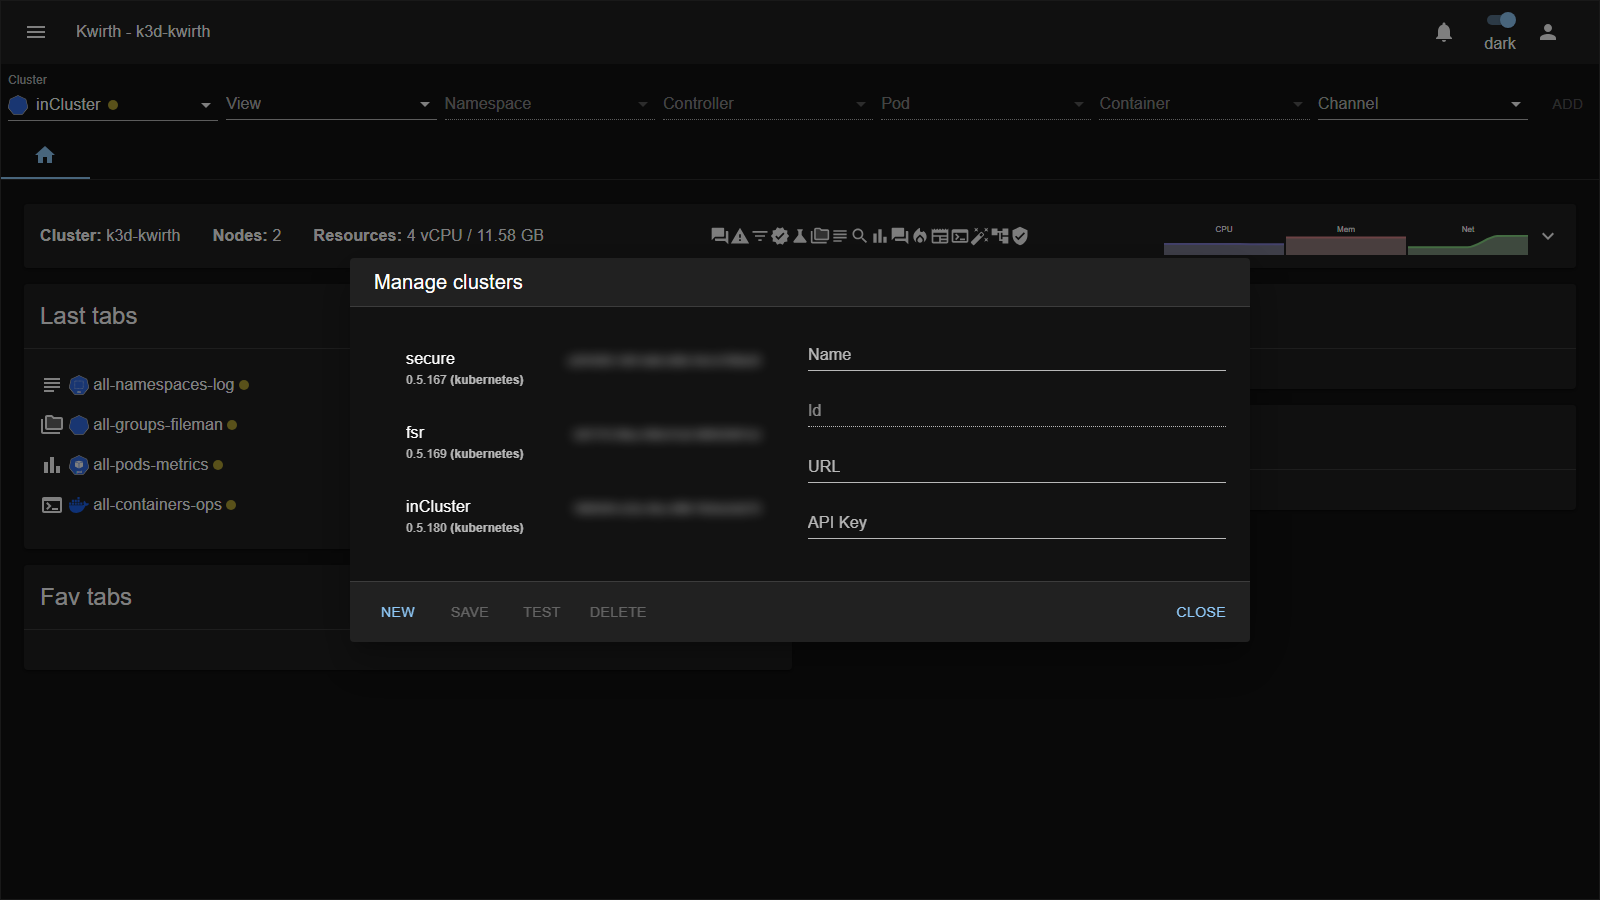
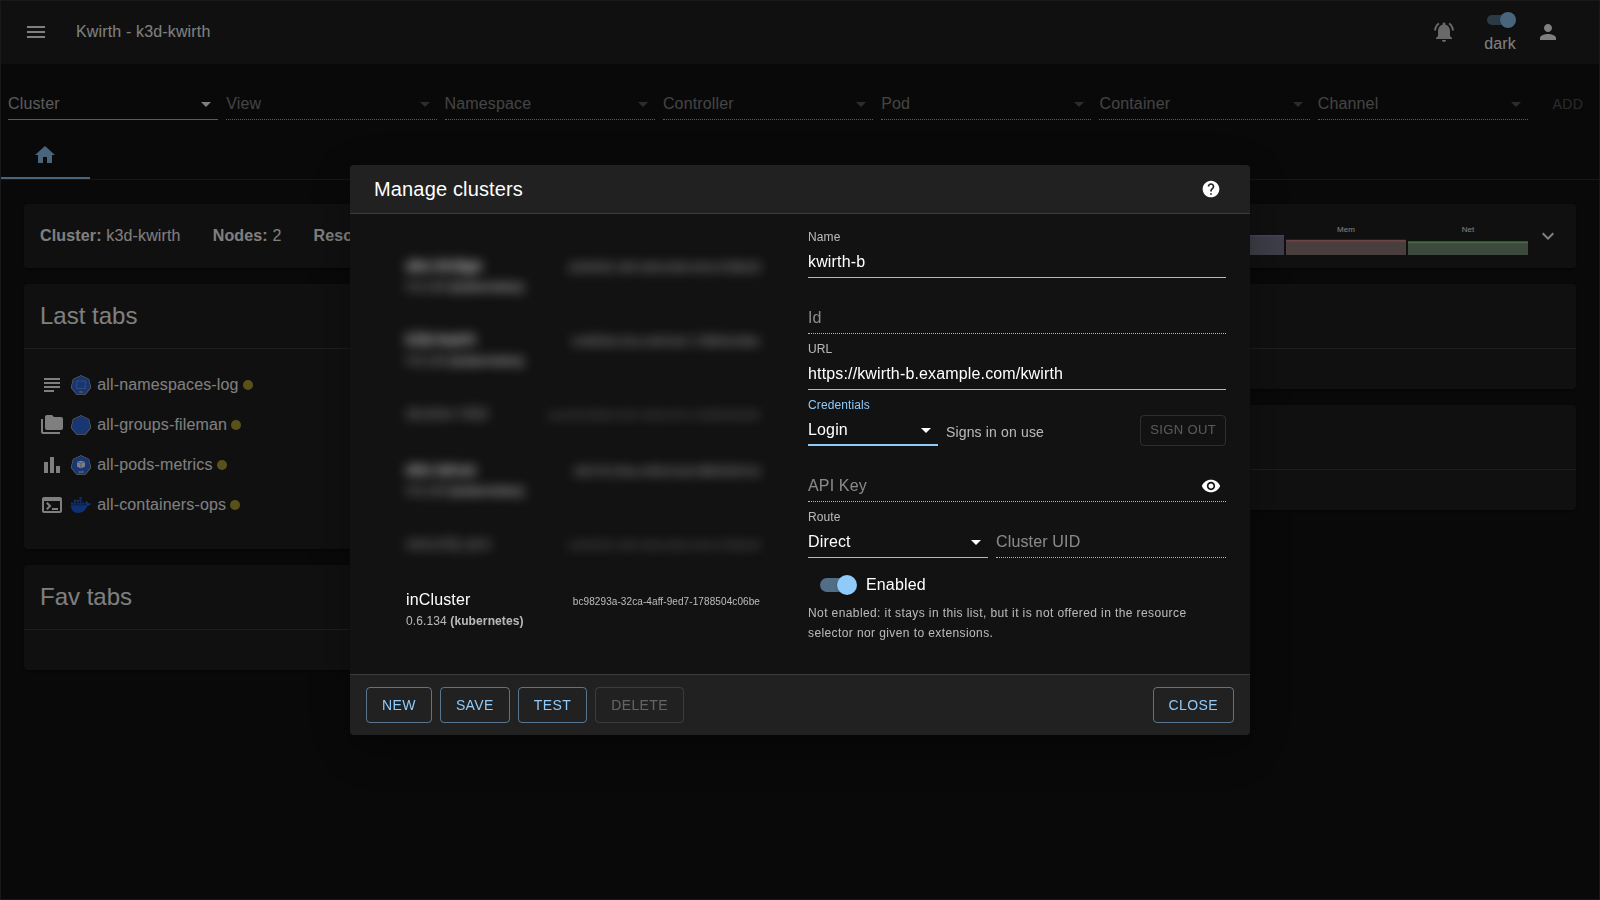
docs(guide): signing in to a cluster — new Manage clusters and Sign in captures (capture-clusters.spec.ts), Login credentials across the cluster pages, several kwirths on one domain, roadmap: cluster sign-in with SSO

diff --git a/front/e2e/tests/capture-clusters.spec.ts b/front/e2e/tests/capture-clusters.spec.ts
@@ -1,0 +1,116 @@
+import { test, expect, Page } from '@playwright/test'
+import { login, dismissOpenDialogs, openMenu, GUIDE_MEDIA, capturePedida } from './helpers'
+
+/*
+    Screenshots of the Cluster management guide (docs/<version>/guide/admin/06-cluster-management): the
+    Manage clusters dialog with a Login entry being added, and the Sign in dialog. Run by hand:
+        CAPTURES=1 npx playwright test tests/capture-clusters.spec.ts
+
+    🔴 The guide is PUBLIC and the development cluster list holds real names: every list entry but the source
+    one (inCluster) is blurred, and the forms carry EXAMPLE values. The Sign in dialog needs a saved Login
+    entry: it is created pointing at the dev back (the URL shown is swapped for an example one right before
+    the shot) and deleted at the end, in a finally.
+*/
+
+const MEDIA = GUIDE_MEDIA
+const BACK = process.env.KWIRTH_E2E_BACK ?? 'http://localhost:3883'
+const ENTRY = 'kwirth-b'
+const EXAMPLE_URL = 'https://kwirth-b.example.com/kwirth'
+
+const dialogOf = (page: Page) => page.getByRole('dialog').filter({ hasText: 'Manage clusters' })
+const actionOf = (page: Page, name: string) => dialogOf(page).locator('.MuiDialogActions-root').getByRole('button', { name, exact: true })
+const entryOf = (page: Page) => dialogOf(page).getByRole('list').getByRole('button').filter({ hasText: ENTRY })
+
+const openManage = async (page: Page) => {
+    await dismissOpenDialogs(page)
+    await openMenu(page)
+    await page.getByRole('menuitem', { name: 'Manage cluster list', exact: true }).click({ force: true })
+    await expect(dialogOf(page)).toBeVisible({ timeout: 20000 })
+}
+
+const closeManage = async (page: Page) => {
+    await actionOf(page, 'CLOSE').click()
+    await expect(dialogOf(page)).toBeHidden({ timeout: 10000 })
+}
+
+const deleteEntry = async (page: Page) => {
+    await entryOf(page).click()
+    await expect(dialogOf(page).getByLabel('Name', { exact: true })).toHaveValue(ENTRY)
+    await actionOf(page, 'DELETE').click()
+    await page.getByRole('dialog', { name: 'Delete Cluster' }).getByRole('button', { name: 'yes', exact: true }).click()
+    await expect(entryOf(page)).toHaveCount(0)
+}
+
+// every list entry but the source one is blurred: the dev list holds real cluster names and ids
+const redactList = (page: Page) => page.evaluate(() => {
+    for (const item of Array.from(document.querySelectorAll('[role=dialog] ul [role=button]'))) {
+        if (!(item.textContent ?? '').startsWith('inCluster')) (item as HTMLElement).style.filter = 'blur(6px)'
+    }
+})
+
+test('capture the Cluster management guide (dark, example values only)', async ({ page }) => {
+    await page.setViewportSize({ width: 1600, height: 900 })
+    await page.addInitScript(() => { try { localStorage.setItem('kwirth.mode', 'dark') } catch { /* */ } })
+    await login(page)
+    await page.addStyleTag({ content: '.MuiSnackbar-root { display: none !important; }' })
+
+    await openManage(page)
+    // a leftover of an earlier run that failed half-way is this spec's own entry: it goes
+    if (await entryOf(page).count() > 0) await deleteEntry(page)
+
+    try {
+        // ── the dialog, with a Login entry being typed (not saved) ──
+        if (capturePedida('admin-cluster-list')) {
+            await actionOf(page, 'NEW').click()
+            await dialogOf(page).getByLabel('Name', { exact: true }).fill(ENTRY)
+            await dialogOf(page).getByLabel('URL', { exact: true }).fill(EXAMPLE_URL)
+            await dialogOf(page).getByRole('combobox', { name: 'Credentials' }).click()
+            await page.getByRole('option', { name: 'Login', exact: true }).click()
+            await expect(page.getByRole('listbox')).toHaveCount(0)
+            await expect(dialogOf(page).getByTestId('manage-clusters-session')).toHaveText('Signs in on use')
+            await redactList(page)
+            await page.mouse.move(0, 0)
+            await page.waitForTimeout(800)
+            await page.screenshot({ path: `${MEDIA}/admin-cluster-list.png` })
+            await actionOf(page, 'NEW').click()
+        }
+
+        // ── the Sign in dialog: a saved Login entry, chosen in the resource selector ──
+        if (capturePedida('cluster-login-dialog')) {
+            await actionOf(page, 'NEW').click()
+            await dialogOf(page).getByLabel('Name', { exact: true }).fill(ENTRY)
+            await dialogOf(page).getByLabel('URL', { exact: true }).fill(BACK)
+            await dialogOf(page).getByRole('combobox', { name: 'Credentials' }).click()
+            await page.getByRole('option', { name: 'Login', exact: true }).click()
+            await actionOf(page, 'SAVE').click()
+            await expect(entryOf(page)).toHaveCount(1)
+            await closeManage(page)
+
+            await page.getByRole('combobox').first().click()
+            await page.getByRole('listbox').getByRole('option').filter({ hasText: ENTRY }).click()
+            const signIn = page.getByRole('dialog').filter({ hasText: `Sign in to ${ENTRY}` })
+            await expect(signIn).toBeVisible({ timeout: 10000 })
+            await signIn.getByLabel('Remote user').fill('operator')
+            await signIn.getByLabel('Remote password').fill('example-password')
+            // the dev back's address is not the guide's: the caption under the title shows an example one
+            await signIn.evaluate((d, url) => {
+                for (const el of Array.from(d.querySelectorAll('.MuiTypography-caption'))) {
+                    if ((el.textContent ?? '').startsWith('http')) el.textContent = url
+                }
+            }, EXAMPLE_URL)
+            await expect(signIn).toContainText(EXAMPLE_URL)
+            await page.mouse.move(0, 0)
+            await page.waitForTimeout(600)
+            await signIn.screenshot({ path: `${MEDIA}/cluster-login-dialog.png` })
+            await signIn.getByRole('button', { name: 'CANCEL', exact: true }).click()
+            await expect(signIn).toHaveCount(0)
+            await openManage(page)
+        }
+    }
+    finally {
+        await dismissOpenDialogs(page)
+        await openManage(page)
+        if (await entryOf(page).count() > 0) await deleteEntry(page)
+        await closeManage(page)
+    }
+})

diff --git a/docs/0.6.31/changelog.md b/docs/0.6.31/changelog.md
@@ -11,7 +11,8 @@ Minor but powerful features:
   - **Merging configuration files.** A new **Portability** tab in **Kwirth settings** merges several files exported with *Kwirth export* — and, if you want, this kwirth's current configuration — into a new one to download. The sources are shown in merge order, which you can change. What is in one source only, or identical in all of them, goes in on its own; only what **differs** is asked, naming the field that differs, and the file cannot be downloaded while anything is pending. A secret blanked by a credential-free export does not count as a difference: the value of the source that carries it is kept. Kwirth's own part is merged element by element (marketplaces, registries, addresses, log levels, AI providers and models, loose values); an extension is taken whole from one source. Nothing is applied: the result is imported with *Kwirth import*. `kwirth-common` (0.5.94) brings the merge (`analyzeMerge`, `buildMerged`, `EConfigMergeItemKind`) and moves `validateBundle` and `normalizeEntry` there from the back end. See [the guide](guide/admin/02-initial-config?id=merging-several-configuration-files).
   - **Clusters you sign in to.** An entry of the cluster list can now have **Credentials = Login** instead of a stored API key: when you use it, Kwirth asks for a user and password **of that cluster's own Kwirth** —any of its users, not necessarily the one you are logged in with here—, signs in there and keeps the key it hands out. The password is never stored. Credentials are separate from how the cluster is reached, so a cluster behind a router (Bridge, IRIA Ianus) can use Login too. The entry says **as &lt;user&gt;**, **login required** or **session expired** (the remote's key lasts 24 hours), and **Sign out** forgets the session. See [the guide](guide/admin/06-cluster-management?id=signing-in-to-a-cluster).
   - **Manage cluster list keeps what you save in place.** Saving left the entry highlighted with an empty form —and whatever was typed next overwrote it—, moved it to the end of the list, and entries sharing a URL could be drawn twice.
-  - **Several Kwirths on one domain no longer overwrite each other in the browser.** The browser keeps one localStorage per domain, whatever the path, so Kwirths served from the same domain under different paths (`/kwirth-a`, `/kwirth-b`…) shared every key: the same user in two of them overwrote each other's recent and favourite tabs, workspaces, theme and homepage, and so did every extension that keeps something there. Now a Kwirth under a path keeps everything in **one entry named after its path**, with the same keys inside; the core and every extension use localStorage exactly as before. A Kwirth served at the root is not affected and keeps what it had.
+  - **Several Kwirths on one domain no longer overwrite each other in the browser.** The browser keeps one localStorage per domain, whatever the path, so Kwirths served from the same domain under different paths (`/kwirth-a`, `/kwirth-b`…) shared every key: the same user in two of them overwrote each other's recent and favourite tabs, workspaces, theme and homepage, and so did every extension that keeps something there. Now a Kwirth under a path keeps everything in **one entry named after its path**, with the same keys inside; the core and every extension use localStorage exactly as before. A Kwirth served at the root is not affected and keeps what it had. See [Several kwirths on one domain](installation?id=several-kwirths-on-one-domain).
+  - **A marketplace manifest that cannot be read says why.** The log used to say only *fetch failed* —the same for a DNS failure, a refused connection, a certificate or a timeout— while the URL opened fine in a browser; it now adds the real cause, code and message (`(cause: ENOTFOUND — getaddrinfo ENOTFOUND …)`).
   - **Extension tags.** Every extension, of any type, says what it is **for** with a list of tags — `observability`, `log`, `kubernetes`, `ai`, `game`… — shown as chips on its card. The catalog of every manager gets a **tags filter**: ticking several shows what carries **all** of them. Tags come from a closed catalog (`EExtensionTag`, 55 of them), so the same idea is always spelled the same way; `kwirth-common` (0.5.95) brings it with `extensionTagsOf`, and `tags` in `IMarketplaceEntry` and (0.5.96) `IDceMeta`. Extensions declare `"tags"` in their `package.json`, the builds carry it to `dist/package.json`, and every scaffolder asks for them (`--tags a,b`, required with `--id`). See [the guide](guide/admin/08-extending-kwirth?id=the-manager-same-pattern-everywhere).
   - **User tags**: an admin labels each user with tags of the form `<extension>:<value>` (e.g. `agora:sre`) in **User security**, and each extension reads its own to adapt **how** it works for that user — an AI assistant answering an executive with an overview and an SRE with the detail. They grant **no** permission. Extensions get them in `IUserInfo.tags` through `getUsers()`; `kwirth-common` (0.5.80) brings `userTagsOf`, `normalizeUserTags` and `userTagsProblem`.
   - **Script sender** (`@kwirthmagnify/kwirth-sender-script`): a sender whose destination is a script written in its configuration — `sh`, `bash`, `pwsh`, `powershell` or `cmd` — getting the message on stdin (text or JSON) and/or as `KWIRTH_*` variables, in a clean environment that never inherits the back end's credentials, with a timeout that kills the whole process tree. A batch is one run. It can wait for the script and return its result, or return as soon as it starts (at most 20 runs in the background per configuration). See [script](guide/extensions/senders/script).

diff --git a/docs/0.6.31/guide/admin/06-cluster-management.md b/docs/0.6.31/guide/admin/06-cluster-management.md
@@ -41,7 +41,7 @@ It **takes precedence over every heuristic**, so it is also the way to fix a man
 
 ## Add a remote cluster
 
-To observe another cluster from here, that cluster must be running its **own** kwirth, and you need an **API key** from it.
+To observe another cluster from here, that cluster must be running its **own** kwirth, and you need an **API key** from it — or a user of that kwirth to [sign in with](#signing-in-to-a-cluster).
 
 1. On the **remote** kwirth, create an API key with the scopes you need (see [API management](05-api-management)) and copy it.
 2. Back on **this** kwirth: **☰ → Manage cluster list → NEW**.
@@ -53,7 +53,7 @@ To observe another cluster from here, that cluster must be running its **own** k
 
 The new cluster now appears in the **Cluster** dropdown of the [resource selector](../user/04-selecting-resources), and you can build tabs against it without logging out of this one.
 
-> Fields shown per cluster: **Name**, **Id**, **URL**, **API Key**, **Route**, **Credentials**. Buttons: **NEW**, **SAVE**, **TEST** (connectivity check), **DELETE**, **CLOSE**. You cannot edit or delete the source `inCluster` / `inDesktop` entry.
+> Fields shown per cluster: **Name**, **Id**, **URL**, **Credentials** (*API key* or *Login*, with the session state and **SIGN OUT** on the same row), **API Key**, **Route** and **Cluster UID** (see [Routers](../extensions/routers/index)), **Enabled**. Buttons: **NEW**, **SAVE**, **TEST** (connectivity check), **DELETE**, **CLOSE**. You cannot edit or delete the source `inCluster` / `inDesktop` entry.
 
 ## Signing in to a cluster
 
@@ -66,11 +66,15 @@ you would rather not leave a key stored in the list.
 Bridge or IRIA Ianus) and how you *sign in* are two different choices, so a cluster behind a router can use Login too.
 
 1. **☰ → Manage cluster list → NEW**, fill **Name** and **URL** (and **Route** if it is reached through a router).
-2. Set **Credentials** to **Login**. The **API Key** field stays there but disabled: there is nothing to paste.
+2. Set **Credentials** to **Login**. Next to it the dialog says *Signs in on use*; the **API Key** field below stays
+   there but disabled: there is nothing to paste.
 3. **TEST** checks that a kwirth answers at that address; **SAVE**.
 
 The entry now reads **login required**, here and in the **Cluster** dropdown of the resource selector. Choose it
 there and a **Sign in to &lt;cluster&gt;** dialog opens:
+
+![Sign in to a cluster](../../_media/guide/cluster-login-dialog.png)
+
 
 - The user is **the remote kwirth's**, not yours here. You may be logged in to this kwirth as `admin` and sign in to
   the remote one as any of its users — what you can do there is what *that* user may do.
@@ -109,11 +113,11 @@ This is what makes kwirth a **single pane of glass**: you don't switch context o
 
 ## How cross-cluster access works
 
-When you select a remote cluster in the resource selector, kwirth transparently uses the **API key you stored** for it — you don't log in again. So a single session can span clusters:
+When you select a remote cluster in the resource selector, kwirth transparently uses the **API key stored** for it — the one you pasted, or the one a *Login* entry got when you signed in — so you don't log in again while it lasts. A single session can span clusters:
 
 1. You log in to kwirth on cluster **A**.
-2. An admin on cluster **B** gave you an API key, which you added under **Manage cluster list**.
-3. Selecting cluster **B** in the resource selector makes kwirth use that key automatically to stream from **B**.
+2. An admin on cluster **B** gave you an API key, which you added under **Manage cluster list** — or a user of B's kwirth, and the entry's **Credentials** are **Login**.
+3. Selecting cluster **B** in the resource selector makes kwirth use that key automatically to stream from **B** (a *Login* entry asks for the user and password first, the first time and whenever the session has expired).
 
 ## Worked example — consolidate a second cluster
 

diff --git a/docs/0.6.31/roadmap.md b/docs/0.6.31/roadmap.md
@@ -21,6 +21,7 @@ We cite here some interesting capabilities that are missing today:
   - [AI] ~~`kwirth`, **AI capabilities**. Integrate AI-driven insights for log analysis, anomaly detection or artifact analysis.~~ DONE! (via 'pinocchio' and 'censor' channels)
   - [AI] ~~`kwirth`, **SSO**, implement Single Sing-On capabilities.~~ DONE!
   - [AI] ~~`kwirth`, **IdP**, implement integrations with external Identity Providers (EntraID, AD, Cognito, Keycloak, LDAP...)~~ DONE!
+  - `kwirth`, **Cluster sign-in with SSO**. A cluster-list entry with *Credentials = Login* signs in to the remote kwirth with a user and password of its own; a remote user who signs in through an identity provider cannot do it from there yet. Next steps: sign in to the remote through its IdP, and reopen the tabs already open on that cluster once its session is renewed.
   - `kwirth`, **Standard tokens**, implement JWT support (with scopes that match the VIEW system implemented inside kwirth)
   - `kwirth`, **Flexible authorization (RBAC/ABAC)**. Evolve the scope system beyond the per-plugin *ladder* convention (numeric level via `indexOf`), which is fine for simple plugins but too rigid for richer ones. The accessKey `resources` already store a comma-separated **set** of scope tokens and the core `hasScope` already tests membership, so an additive **permission-set** model (grant arbitrary scopes independently — e.g. *edit AI models + create working draft but NOT publish*) is available today with no core change, only a reading convention. Steps: (a) offer permission-set as a first-class option (not only ladder) in the scope catalog / user-security admin UI; (b) extend **ABAC** beyond the k8s dimensions by adding an optional, generic 6th dimension to the resource tuple (`scopes:namespaces:groups:pods:containers:selectors`, empty = any) that each plugin interprets for its own resources (e.g. a channel granting "edit everything under *business domain X*"). Backward-compatible: existing keys and ladder-based plugins keep working unchanged; the three mechanisms (ladder ⊆ permission-set ⊆ ABAC) coexist over the same grant store.
   - `kwirth`, **Split the access key in two: the one that travels by WebSocket and the one that travels in the header**. Today they are the SAME string, and that is an accident of history rather than a decision: `accessKey.resources` carries everything, and everything goes everywhere. But the two paths need *different* information. The **WebSocket** key starts channel instances, so it needs the channel scopes and the resource patterns (`namespaces:groups:pods:containers`) — and, with thin scopes, the `channel#scope#config` entries too. The **header** key is what the front sends on every REST call to the core (`App.tsx`, the extension dialogs, user/API security, clusters, DCEs, settings) and what channel endpoints receive; there it is `admin` and the core-level scopes that decide, and the channel scopes buy nothing. Consequences of them being one: (a) **every REST call carries the channel permissions** it will never use, which is also what puts a ceiling on how big a thin-scope config can be, since `Authorization` has to fit through proxies; (b) **least privilege is not expressible** between the two surfaces — a key good enough to list extensions is also good enough to open every channel it was granted; (c) a `bearer` key HMACs `resources` as a whole, so the signature covers permissions the holder does not need for the path it is used on. Splitting them means two serialisations, two issuing points in `IdentityService`, and deciding what a federated/remote connection sends — none of it hard, all of it touching the authentication path, so it is a deliberate piece of work and not a refactor to slip into something else.

diff --git a/docs/0.6.31/installation.md b/docs/0.6.31/installation.md
@@ -535,6 +535,20 @@ So, finally, you should be able to access kwirth at: http://your.dns.name/quirz.
 http://localhost/quirz
 ```
 
+### Several kwirths on one domain
+Nothing stops you from publishing **several independent kwirths under the same host**, each in its own namespace
+with its own Ingress path and its own `ROOTPATH` (`/kwirth-a`, `/kwirth-b`…). Things to know:
+
+- **What each one keeps in your browser stays apart.** The browser has a single localStorage per domain, whatever
+  the path; a kwirth served under a path keeps everything it stores there —recent and favourite tabs, workspaces,
+  theme, homepage, and whatever its extensions keep— in **one entry named after its path**, so the same user in two
+  of them never overwrites the other. A kwirth served at the root (`/`) keeps using localStorage directly, as it
+  always did; it does not collide with the ones under paths either.
+- **The browser's password manager does not tell them apart.** It saves credentials per domain, not per path, so
+  it offers the user and password of one kwirth on the login page of the others. This is the browser's behaviour and
+  cannot be configured from the page: if the users differ between them, pick the right one from the list it offers —
+  or give each kwirth its own host name.
+
 ## Docker, ECS & External
 With Docker Compose the URL is the one `install` prints when it finishes — `http://127.0.0.1:3883` unless
 you passed `--port` or `--bind`.

diff --git a/docs/0.6.31/guide/extensions/routers/index.md b/docs/0.6.31/guide/extensions/routers/index.md
@@ -64,7 +64,8 @@ link to this one.
 ## Adding a routed cluster
 
 *Menu → Manage cluster list → NEW*, and fill the entry as for any cluster — its **real URL** and an **API key of
-that cluster** — plus:
+that cluster**, or **Credentials** = *Login* to [sign in to it](../../admin/06-cluster-management?id=signing-in-to-a-cluster)
+with one of its users (the sign-in goes through the route too) — plus:
 
 | Field | What |
 |---|---|
@@ -76,7 +77,7 @@ that cluster** — plus:
 Both fields are always there; *Route* is disabled while there is no router installed, and *Cluster UID* while
 the route is *Direct*. *Test* tries the entry **through its route**.
 
-The API key is **the target cluster's**, as for any cluster: the router carries it untouched, and **that
+The API key — pasted or obtained by signing in — is **the target cluster's**, as for any cluster: the router carries it untouched, and **that
 cluster** authenticates and authorizes you with it. A router never gives you more than the target cluster would.
 
 If a routed entry's router is uninstalled, the entry stays — *Route* shows the router as *(not installed)* — and

diff --git a/docs/0.6.31/security.md b/docs/0.6.31/security.md
@@ -36,8 +36,8 @@ On the other side, API security is the way you can use to give access to your kw
 As you can see...:
 
   1. The user logs to kwirth at Kubernetes cluster "A".
-  2. Another administrator at cluster "B" gave him an API Key that he adds to his "API Security".
-  3. When the user wants to see a log stream from cluster "B" he doesn't need to logout cluster "A" nor login cluster "B". When the user selects cluster "B" in his "Resource Selector", kwirth will use the appropriate API Key.
+  2. Another administrator at cluster "B" gave them an API Key that they add to their **cluster list** (*Manage cluster list*) — or the entry's **Credentials** are **Login**, and they sign in to cluster "B"'s kwirth with one of its users the first time they use it ([Signing in to a cluster](guide/admin/06-cluster-management?id=signing-in-to-a-cluster)).
+  3. When the user wants to see a log stream from cluster "B" they don't need to log out of cluster "A". When they select cluster "B" in their "Resource Selector", kwirth will use the appropriate API Key.
 
 It's easy to work with. Enjoy!
 

diff --git a/docs/0.6.31/clustermanagement.md b/docs/0.6.31/clustermanagement.md
@@ -13,7 +13,7 @@ To add a cluster to your profile you only need to enter three simple data:
 
 - **Name**. The name of the cluster, that must be unique. This is a name **for your convenience**, does not have to be the real name of the cluster.
 - **URL**. The URL where kwirth has been published in the cluster you are adding.
-- **API Key**. An API Key that you must create in the kwirth instance that is running on the cluster you want to add.
+- **API Key**. An API Key that you must create in the kwirth instance that is running on the cluster you want to add. Or set **Credentials** to **Login** instead, and kwirth asks for a user and password of that cluster's kwirth when you use it — see [Signing in to a cluster](guide/admin/06-cluster-management?id=signing-in-to-a-cluster).
 
 That is, something like this:
 
